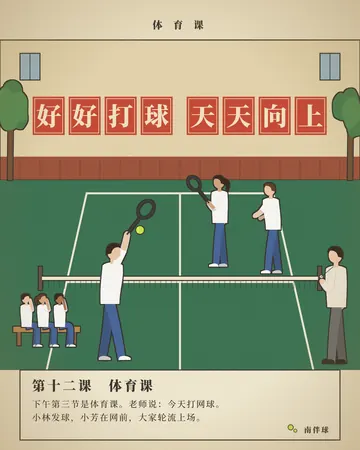
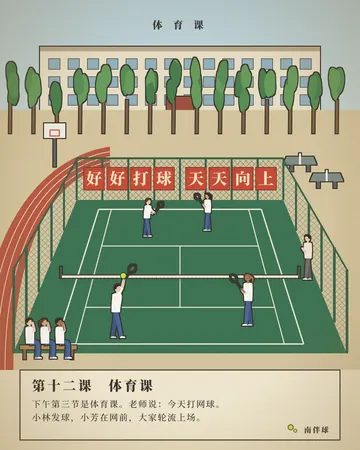
海报 181–182 改为高机位远景学校运动场，八字标语挂在球场围网上；textbook.schoolyard
Claude-Session: https://claude.ai/code/session_014vi3eY4PQACXjZBSA9oy8y

diff --git a/marketing/textbook.py b/marketing/textbook.py
@@ -10,6 +10,7 @@ DEFS = (f'<filter id="ol_t" x="-10%" y="-10%" width="120%" height="120%"><feMorp
         f'<feFlood flood-color="{INK}"/><feComposite in2="d" operator="in" result="o"/><feMerge><feMergeNode in="o"/><feMergeNode in="SourceGraphic"/></feMerge></filter>'
         '<pattern id="dots_t" width="7" height="7" patternUnits="userSpaceOnUse" patternTransform="rotate(30)"><circle cx="3.5" cy="3.5" r="1.3" fill="#3A2E20"/></pattern>'
         '<filter id="paper_t" x="0" y="0" width="100%" height="100%"><feTurbulence type="fractalNoise" baseFrequency=".6" numOctaves="3" seed="61"/><feColorMatrix values="0 0 0 0 .45  0 0 0 0 .38  0 0 0 0 .25  0 0 0 .22 0"/></filter>'
+        '<pattern id="mesh_t" width="12" height="12" patternUnits="userSpaceOnUse" patternTransform="rotate(45)"><rect width="12" height="12" fill="none" stroke="#4A6A5A" stroke-width="1.4"/></pattern>'
         '<radialGradient id="age_t" cx="50%" cy="50%" r="75%"><stop offset=".55" stop-color="#8A6A3A" stop-opacity="0"/><stop offset="1" stop-color="#8A6A3A" stop-opacity=".35"/></radialGradient>')
 
 
@@ -41,3 +42,77 @@ def lesson(p, no, title, lines, y=1110):
         p.append(f'<text x="96" y="{y + 112 + i * 40}" font-family="{SERIF}" font-weight="500" font-size="26" letter-spacing="3" fill="{INK}">{t}</text>')
     p.append(f'<circle cx="872" cy="{y + 172}" r="8" fill="#C6EA3D" stroke="{INK}" stroke-width="2"/><circle cx="886" cy="{y + 182}" r="5" fill="#C6EA3D" stroke="{INK}" stroke-width="1.6"/>'
              f'<text x="990" y="{y + 188}" text-anchor="end" font-family="{SERIF}" font-weight="900" font-size="22" letter-spacing="4" fill="{INK}">南伴球</text>')
+
+
+def schoolyard(p, r, slogan_text='好好打球天天向上'):
+    """高机位远景的学校运动场：教学楼、白杨、红跑道弯道、篮球架、乒乓球台、
+    一块被围网围住的南伴绿网球场；八个大字挂在远端围网上，正对着看的人。
+    返回 (球场透视函数)：T(u, v) 把场地坐标 (u 0..1 左右, v 0..1 远近) 映射到画面。"""
+    from lin import blob, ink
+    FY, NY, FL, FR, NL, NR = 600, 1060, 230, 850, 40, 1040          # 球场远边 / 近边
+    T = lambda u, v: (FL + (FR - FL) * u + ((NL + (NR - NL) * u) - (FL + (FR - FL) * u)) * v, FY + (NY - FY) * v)
+    p.append('<defs><linearGradient id="sky_t" x1="0" y1="0" x2="0" y2="1"><stop offset="0" stop-color="#B8D4E0"/><stop offset="1" stop-color="#E8E4CC"/></linearGradient></defs>')
+    p.append('<rect width="1080" height="1110" fill="url(#sky_t)"/>')
+    # 教学楼（远处一长条）
+    p.append(outlined('<rect x="120" y="150" width="840" height="190" fill="#EDE4CC"/><rect x="120" y="140" width="840" height="14" fill="#B8A88A"/>'))
+    for row in range(3):
+        for col in range(14):
+            p.append(f'<rect x="{146 + col * 58}" y="{176 + row * 54}" width="34" height="32" fill="#8EB0C0" stroke="{INK}" stroke-width="1.5"/>')
+    p.append(outlined('<rect x="500" y="290" width="80" height="50" fill="#9A4A34"/>'))
+    # 地面
+    p.append('<path d="M0 330 L1080 330 L1080 1110 L0 1110Z" fill="#D8C8A0"/>')
+    # 白杨一排
+    tr = ''
+    for x in range(30, 1080, 70):
+        tr += ink([(x, 400), (x + 1, 300)], 7, '#7A5A3A', 1, (0, 0)) + ''.join(blob(r, x + r.uniform(-10, 10), 260 + r.uniform(-50, 40), 16, 40, r.choice(['#4E8A4E', '#3E7A44', '#5E9A56']), 1) for _ in range(3))
+    p.append(outlined(tr))
+    # 红跑道的一段弯道（左边）+ 白线
+    p.append('<path d="M-60 1110 C-60 700 120 470 330 440 L330 500 C170 520 40 720 40 1110Z" fill="#B8503A"/>')
+    for k in range(1, 4):
+        p.append(f'<path d="M{-60 + k*25} 1110 C{-60 + k*25} {700 + k*5} {120 + k*12} {470 + k*15} 330 {440 + k*15}" stroke="#F4EED8" stroke-width="2" fill="none"/>')
+    # 篮球架（左上）、乒乓球台（右边）
+    p.append(outlined(f'<rect x="160" y="380" width="8" height="120" fill="#5A5A5A"/><rect x="132" y="370" width="64" height="44" fill="#F4F2EA"/><rect x="150" y="390" width="28" height="18" fill="none" stroke="{RED}" stroke-width="3"/>'))
+    for x, y in [(900, 470), (980, 520)]:
+        p.append(outlined(f'<path d="M{x - 40} {y} L{x + 40} {y} L{x + 50} {y + 24} L{x - 50} {y + 24}Z" fill="#7A8A84"/><rect x="{x - 3}" y="{y - 10}" width="6" height="34" fill="#F4F2EA"/><rect x="{x - 30}" y="{y + 24}" width="10" height="20" fill="#5A5A5A"/><rect x="{x + 20}" y="{y + 24}" width="10" height="20" fill="#5A5A5A"/>'))
+    # 球场（南伴绿）+ 白线
+    poly = ' '.join(f'{a:.0f},{b:.0f}' for a, b in [T(0, 0), T(1, 0), T(1, 1), T(0, 1)])
+    p.append(f'<polygon points="{poly}" fill="{GREEN}"/>')
+    p.append(f'<polygon points="{poly}" fill="url(#dots_t)" opacity=".16"/>')
+    def L(u1, v1, u2, v2, w=4):
+        (a, b), (c, d) = T(u1, v1), T(u2, v2)
+        p.append(f'<line x1="{a:.0f}" y1="{b:.0f}" x2="{c:.0f}" y2="{d:.0f}" stroke="#F4EED8" stroke-width="{w}"/>')
+    for u in (.12, .88):
+        L(u, .06, u, .94)
+    for u in (.18, .82):
+        L(u, .06, u, .94, 3)
+    L(.12, .06, .88, .06); L(.12, .94, .88, .94); L(.18, .3, .82, .3, 3); L(.18, .7, .82, .7, 3); L(.5, .3, .5, .7, 3)
+    (a, b), (c, d) = T(.06, .5), T(.94, .5)
+    p.append(outlined(f'<line x1="{a:.0f}" y1="{b:.0f}" x2="{c:.0f}" y2="{d:.0f}" stroke="#F4EED8" stroke-width="7"/><rect x="{a - 4:.0f}" y="{b - 30:.0f}" width="6" height="34" fill="#4A4A4A"/><rect x="{c - 2:.0f}" y="{d - 30:.0f}" width="6" height="34" fill="#4A4A4A"/>'))
+    p.append(f'<g opacity=".55">' + ''.join(f'<line x1="{a + (c - a) * k / 60:.0f}" y1="{b:.0f}" x2="{a + (c - a) * k / 60:.0f}" y2="{b + 16:.0f}" stroke="{INK}" stroke-width="1"/>' for k in range(61)) + '</g>')
+    # 围网：远端一面（挂标语）+ 两侧（透视收向远处）
+    FH = 120
+    (fx1, fy), (fx2, _) = T(0, 0), T(1, 0)
+    p.append(f'<rect x="{fx1:.0f}" y="{fy - FH}" width="{fx2 - fx1:.0f}" height="{FH}" fill="url(#mesh_t)" opacity=".75"/>')
+    for k in range(9):
+        x = fx1 + (fx2 - fx1) * k / 8
+        p.append(f'<rect x="{x - 3:.0f}" y="{fy - FH - 6}" width="6" height="{FH + 6}" fill="#2E5A44"/>')
+    p.append(f'<rect x="{fx1:.0f}" y="{fy - FH - 8}" width="{fx2 - fx1:.0f}" height="6" fill="#2E5A44"/>')
+    for side in (0, 1):
+        (nx, ny) = T(side, 1)
+        p.append(f'<polygon points="{T(side, 0)[0]:.0f},{fy} {T(side, 0)[0]:.0f},{fy - FH} {nx:.0f},{ny - FH * 2.1:.0f} {nx:.0f},{ny}" fill="url(#mesh_t)" opacity=".55"/>')
+        p.append(f'<line x1="{T(side, 0)[0]:.0f}" y1="{fy - FH}" x2="{nx:.0f}" y2="{ny - FH * 2.1:.0f}" stroke="#2E5A44" stroke-width="5"/>')
+        for k in range(1, 6):
+            (px, py) = T(side, k / 5)
+            p.append(f'<rect x="{px - 3:.0f}" y="{py - FH * (1 + 1.1 * k / 5):.0f}" width="{6 + 2 * k / 5:.0f}" height="{FH * (1 + 1.1 * k / 5):.0f}" fill="#2E5A44"/>')
+    # 远端围网上的八块红色标语牌
+    n = len(slogan_text)
+    bw, gap, mid = 62, 8, 26
+    total = n * bw + (n - 1) * gap + mid
+    x0 = (fx1 + fx2) / 2 - total / 2
+    for i, ch in enumerate(slogan_text):
+        x = x0 + i * (bw + gap) + (mid if i >= n // 2 else 0)
+        y = fy - FH + 22
+        p.append(f'<rect x="{x:.0f}" y="{y:.0f}" width="{bw}" height="{bw + 6}" fill="{RED}" stroke="#7A2418" stroke-width="2"/>'
+                 f'<text x="{x + bw / 2:.0f}" y="{y + bw * .82:.0f}" text-anchor="middle" font-family="{SERIF}" font-weight="900" font-size="{bw * .76:.0f}" fill="#F7E9C8">{ch}</text>'
+                 f'<circle cx="{x + 6:.0f}" cy="{y + 6:.0f}" r="2" fill="#7A2418"/><circle cx="{x + bw - 6:.0f}" cy="{y + 6:.0f}" r="2" fill="#7A2418"/>')
+    return T

diff --git a/marketing/posters/p182_textbook_labour.py b/marketing/posters/p182_textbook_labour.py
@@ -1,46 +1,43 @@
 from lib import *
-from lin import blob, ink
 from people import person
-from textbook import DEFS, PAPER, INK, RED, BLUE, GREEN, outlined, finish, slogan, lesson
+from textbook import DEFS, PAPER, INK, RED, BLUE, GREEN, outlined, finish, lesson, schoolyard
 
 META = dict(
     id=182, slug='textbook-labour', title='劳动课', lines=['打球之前，', '先把场地弄干净。'],
-    style=['课本插画', '年代感', '勾线平涂', '南伴绿'], tone='浅色', demo=False,
-    concept='六七十年代课本插画的画法：泛黄的纸、黑线勾边、平涂少色；同一块南伴绿的水泥球场上上劳动课——有人扫落叶、两个人推着石头压路滚、有人提着石灰桶画白线、两个人抬着一筐球；墙上还是那八个字；底下课文框「第十三课　劳动课」',
-    use='年代感 / 社群里一起搭把手；回忆共鸣',
+    style=['课本插画', '年代感', '远景', '南伴绿'], tone='浅色', demo=False,
+    concept='六七十年代课本插画的画法，高机位远景：同一个学校运动场，围网上挂着「好好打球　天天向上」；南伴绿的场地上上劳动课——有人扫落叶、两个人推着石头压路滚、有人提着石灰桶画一条画了一半的白线、两个人抬着一筐球往场边走',
+    use='年代感 / 一起搭把手；回忆共鸣',
 )
 
 
 def svg():
     r = random.Random(182)
     p = [f'<defs>{DEFS}</defs>', f'<rect width="1080" height="1350" fill="{PAPER}"/>']
-    p.append('<rect x="0" y="120" width="1080" height="300" fill="#E8D8B0"/><rect x="0" y="360" width="1080" height="60" fill="#9A4A34"/>')
-    p.append(f'<rect x="0" y="120" width="1080" height="300" fill="none" stroke="{INK}" stroke-width="3"/>')
-    slogan(p, '好好打球', 98, 190, 96, 12)
-    slogan(p, '天天向上', 560, 190, 96, 12)
-    p.append(f'<path d="M0 420 L1080 420 L1080 1110 L0 1110Z" fill="{GREEN}"/>')
-    p.append(f'<path d="M0 420 L1080 420 L1080 1110 L0 1110Z" fill="url(#dots_t)" opacity=".18"/>')
-    p.append('<path d="M120 1110 L250 460 L830 460 L960 1110 M540 460 L540 1110" stroke="#F4EED8" stroke-width="6" fill="none"/>')
-    p.append('<path d="M190 780 L620 780" stroke="#F4EED8" stroke-width="6"/>')                                    # 画了一半的线
-    p.append('<path d="M620 780 L890 780" stroke="#F4EED8" stroke-width="3" stroke-dasharray="6 14" opacity=".6"/>')
-    for _ in range(40):                                                                                         # 落叶
-        p.append(f'<ellipse cx="{r.uniform(60, 1020):.0f}" cy="{r.uniform(900, 1090):.0f}" rx="8" ry="4" transform="rotate({r.uniform(0, 180):.0f})" fill="{r.choice(["#D8A040", "#B8742A", "#E8C060"])}"/>')
-    # 扫地的
-    p.append(outlined(person(180, 1060, .95, 'teach', 1, 0, 1, '#FFFFFF', BLUE, shoe='#FFFFFF', sleeve='short', hairstyle='pony')))
-    p.append(outlined(f'<line x1="250" y1="840" x2="300" y2="1050" stroke="#8A6A3A" stroke-width="6"/><path d="M280 1040 L330 1060 L320 1080 L270 1066Z" fill="#D8B060"/>'))
-    # 推压路滚的两个人
-    p.append(outlined('<rect x="430" y="606" width="120" height="70" rx="35" fill="#9A9A90"/><line x1="490" y1="640" x2="560" y2="560" stroke="#6A4A30" stroke-width="7"/>'))
-    p.append(outlined(person(600, 680, .8, 'grip', -1, 2, 0, '#FFFFFF', BLUE, shoe='#FFFFFF', sleeve='short', hairstyle='short')))
-    # 提着石灰桶画线的
-    p.append(outlined(person(660, 800, .8, 'walk', 1, 1, 2, '#FFFFFF', BLUE, shoe='#FFFFFF', sleeve='short', hairstyle='bob')))
-    p.append(outlined(f'<path d="M700 700 L736 700 L732 740 L704 740Z" fill="#E8E8E0"/><path d="M702 700 C708 684 728 684 734 700" stroke="{INK}" stroke-width="2" fill="none"/>'))
-    p.append(f'<text x="718" y="728" text-anchor="middle" font-family="{SERIF}" font-weight="900" font-size="12" fill="{INK}">石灰</text>')
-    # 抬着球筐的两个人
-    p.append(outlined(person(780, 1070, .95, 'hold', 1, 0, 0, '#FFFFFF', BLUE, shoe='#FFFFFF', sleeve='short', hairstyle='short')))
-    p.append(outlined(person(990, 1070, .95, 'hold', -1, 3, 3, '#FFFFFF', BLUE, shoe='#FFFFFF', sleeve='short', hairstyle='pony')))
-    p.append(outlined('<line x1="820" y1="830" x2="950" y2="830" stroke="#8A6A3A" stroke-width="8"/><path d="M850 834 L920 834 L910 900 L860 900Z" fill="#C8A060"/>'))
-    for i in range(7):
-        p.append(f'<circle cx="{862 + (i % 4) * 14}" cy="{846 - (i // 4) * 12}" r="8" fill="#C6EA3D" stroke="{INK}" stroke-width="1.6"/>')
+    T = schoolyard(p, r)
+    for _ in range(60):                                                                                        # 场上的落叶
+        u, v = r.uniform(.02, .98), r.uniform(.4, 1)
+        x, y = T(u, v)
+        p.append(f'<ellipse cx="{x:.0f}" cy="{y:.0f}" rx="5" ry="2.5" fill="{r.choice(["#D8A040", "#B8742A", "#E8C060"])}"/>')
+    def kid(u, v, pose, f, sk=0, hr=0, hs='short', s=1.0):
+        x, y = T(u, v)
+        sc = (.28 + .2 * v) * s
+        p.append(outlined(person(x, y, sc, pose, f, sk, hr, '#FFFFFF', BLUE, shoe='#FFFFFF', sleeve='short', hairstyle=hs)))
+        return x, y, sc
+    x, y, sc = kid(.2, .86, 'teach', 1, 0, 1, 'pony')                                                         # 扫地
+    p.append(outlined(f'<line x1="{x + 60*sc:.0f}" y1="{y - 210*sc:.0f}" x2="{x + 95*sc:.0f}" y2="{y - 6:.0f}" stroke="#8A6A3A" stroke-width="4"/><path d="M{x + 80*sc:.0f} {y - 10:.0f} l40 8 l-6 12 l-40 -8Z" fill="#D8B060"/>'))
+    rx, ry = T(.55, .28)                                                                                      # 压路滚
+    p.append(outlined(f'<rect x="{rx - 40:.0f}" y="{ry - 26:.0f}" width="80" height="44" rx="22" fill="#9A9A90"/><line x1="{rx:.0f}" y1="{ry - 4:.0f}" x2="{rx + 56:.0f}" y2="{ry - 52:.0f}" stroke="#6A4A30" stroke-width="5"/>'))
+    kid(.66, .26, 'grip', -1, 2, 0, 'short')
+    kid(.71, .3, 'grip', -1, 0, 3, 'short')
+    (a, b), (c, d) = T(.18, .7), T(.55, .7)                                                                   # 画了一半的线
+    p.append(f'<line x1="{a:.0f}" y1="{b:.0f}" x2="{c:.0f}" y2="{d:.0f}" stroke="#FFFFFF" stroke-width="4"/>')
+    lx, ly, ls = kid(.58, .74, 'walk', 1, 1, 2, 'bob')
+    p.append(outlined(f'<path d="M{lx + 30:.0f} {ly - 110:.0f} l22 0 l-3 26 l-16 0Z" fill="#E8E8E0"/>'))
+    x1, y1, s1 = kid(.8, .9, 'hold', 1, 0, 0, 'short')                                                       # 抬球筐
+    x2, y2, s2 = kid(.95, .9, 'hold', -1, 3, 3, 'pony')
+    p.append(outlined(f'<line x1="{x1 + 40*s1:.0f}" y1="{y1 - 248*s1:.0f}" x2="{x2 - 40*s2:.0f}" y2="{y2 - 248*s2:.0f}" stroke="#8A6A3A" stroke-width="5"/><path d="M{(x1 + x2) / 2 - 30:.0f} {y1 - 244*s1:.0f} l60 0 l-8 44 l-44 0Z" fill="#C8A060"/>'))
+    for i in range(6):
+        p.append(f'<circle cx="{(x1 + x2) / 2 - 18 + (i % 3) * 18:.0f}" cy="{y1 - 248*s1 + 8 - (i // 3) * 10:.0f}" r="7" fill="#C6EA3D" stroke="{INK}" stroke-width="1.4"/>')
     p.append(f'<text x="540" y="86" text-anchor="middle" font-family="{SERIF}" font-weight="900" font-size="30" letter-spacing="12" fill="{INK}">劳 动 课</text>')
     lesson(p, '十三', '劳动课', ['打球之前，先把场地弄干净。', '扫落叶，压场地，画白线，把球捡回筐里。'])
     finish(p)

diff --git a/marketing/posters/p181_textbook_pe.py b/marketing/posters/p181_textbook_pe.py
@@ -1,46 +1,34 @@
 from lib import *
-from lin import blob, ink
 from people import person
-from textbook import DEFS, PAPER, INK, RED, BLUE, GREEN, outlined, finish, slogan, lesson
+from textbook import DEFS, PAPER, INK, RED, BLUE, GREEN, outlined, finish, lesson, schoolyard
 
 META = dict(
     id=181, slug='textbook-pe', title='体育课', lines=['好好打球，', '天天向上。'],
-    style=['课本插画', '年代感', '勾线平涂', '南伴绿'], tone='浅色', demo=False,
-    concept='六七十年代课本插画的画法：泛黄的纸、黑线勾边、平涂少色、印刷网点；学校的墙上一排红底大字「好好打球　天天向上」，墙下一块南伴绿的水泥球场，白衬衫蓝裤子的孩子们在上体育课——有人发球、有人在网前、老师吹着哨子，长凳上坐着等着轮换的同学；底下是课文框「第十二课　体育课」',
-    use='年代感 / 回忆共鸣；适合节日、开学季、社群活动',
+    style=['课本插画', '年代感', '远景', '南伴绿'], tone='浅色', demo=False,
+    concept='六七十年代课本插画的画法，高机位远景：从教学楼上往下看整个学校运动场——远处教学楼和一排白杨，左边红跑道的弯道和篮球架，右边水泥乒乓球台；中间一块被围网围住的南伴绿网球场，远端围网上挂着八块红色标语牌「好好打球　天天向上」；场上几个白衬衫蓝裤子的孩子在上体育课，老师站在网边吹哨，场边长凳上坐着等轮换的同学',
+    use='年代感 / 回忆共鸣；开学季、节日、社群活动',
 )
 
 
 def svg():
     r = random.Random(181)
     p = [f'<defs>{DEFS}</defs>', f'<rect width="1080" height="1350" fill="{PAPER}"/>']
-    p.append('<rect x="0" y="120" width="1080" height="420" fill="#E8D8B0"/>')                                    # 校舍的墙
-    p.append(f'<rect x="0" y="470" width="1080" height="70" fill="#9A4A34"/>')
-    for x in range(0, 1080, 60):
-        p.append(f'<line x1="{x}" y1="470" x2="{x}" y2="540" stroke="#7A3A28" stroke-width="2"/>')
-    p.append(f'<rect x="0" y="120" width="1080" height="420" fill="none" stroke="{INK}" stroke-width="3"/>')
-    for x in (60, 960):                                                                                       # 窗
-        p.append(f'<rect x="{x}" y="160" width="60" height="80" fill="#9AB8C8" stroke="{INK}" stroke-width="3"/><line x1="{x+30}" y1="160" x2="{x+30}" y2="240" stroke="{INK}" stroke-width="2"/>')
-    slogan(p, '好好打球', 98, 290, 96, 12)
-    slogan(p, '天天向上', 560, 290, 96, 12)
-    p.append(f'<path d="M0 540 L1080 540 L1080 1110 L0 1110Z" fill="{GREEN}"/>')                                  # 南伴绿水泥场
-    p.append(f'<path d="M0 540 L1080 540 L1080 1110 L0 1110Z" fill="url(#dots_t)" opacity=".18"/>')
-    p.append('<path d="M140 1110 L260 580 L820 580 L940 1110 M200 846 L880 846 M540 580 L540 1110" stroke="#F4EED8" stroke-width="6" fill="none"/>')
-    p.append(outlined('<rect x="120" y="830" width="840" height="10" fill="#F4EED8"/><rect x="116" y="800" width="10" height="70" fill="#5A4A3A"/><rect x="954" y="800" width="10" height="70" fill="#5A4A3A"/>'))
-    p.append('<g opacity=".7">' + ''.join(f'<line x1="{x}" y1="840" x2="{x}" y2="866" stroke="{INK}" stroke-width="1.4"/>' for x in range(130, 955, 16)) + '</g>')
-    trees = ''.join(ink([(x, 540), (x + 2, 380)], 14, '#6A4A30', 1, (0, 0)) + ''.join(blob(r, x + r.uniform(-24, 24), 330 + r.uniform(-60, 40), 30, 46, r.choice(['#4E8A4E', '#3E7A44']), 1) for _ in range(5)) for x in (30, 1050))
-    p.append(outlined(trees))
-    kids = [(330, 1080, 1.0, 'five', 1, 0, 0, '#FFFFFF', BLUE, 'short', 'fh'),
-            (660, 800, .78, 'hold', -1, 1, 0, '#FFFFFF', BLUE, 'pony', 'fh'),
-            (820, 820, .78, 'teach', -1, 0, 1, '#FFFFFF', BLUE, 'short', None)]
-    for x, y, s_, pose, f, sk, hr, top, bot, hs, rk in kids:
-        p.append(outlined(person(x, y, s_, pose, f, sk, hr, top, bot, shoe='#FFFFFF', sleeve='short', hairstyle=hs, racket_hand=rk)))
-    p.append(outlined(person(1010, 1090, 1.0, 'hold', -1, 0, 0, '#F2EADA', '#6A6A6A', shoe='#2A2622', sleeve='long', hairstyle='short')))   # 老师
-    p.append(f'<circle cx="964" cy="830" r="6" fill="#C8C8C8" stroke="{INK}" stroke-width="2"/><line x1="964" y1="830" x2="1000" y2="800" stroke="{INK}" stroke-width="1.5"/>')   # 哨子
-    p.append(outlined('<rect x="40" y="980" width="200" height="16" fill="#B8864A"/><rect x="52" y="996" width="10" height="40" fill="#8A5A3A"/><rect x="218" y="996" width="10" height="40" fill="#8A5A3A"/>'))
-    for i, x in enumerate((80, 130, 180)):
-        p.append(outlined(person(x, 1040, .55, 'drink', 1, i % 3, i % 2, '#FFFFFF', BLUE, shoe='#FFFFFF', sleeve='short', hairstyle=['short', 'pony', 'short'][i])))
-    p.append(f'<circle cx="420" cy="690" r="13" fill="#C6EA3D" stroke="{INK}" stroke-width="2.5"/><path d="M412 682 C417 687 417 693 412 698" stroke="#F6F8E0" stroke-width="2" fill="none"/>')
+    T = schoolyard(p, r)
+    def kid(u, v, pose, f, sk=0, hr=0, hs='short', rk=None, s=1.0, top='#FFFFFF', bot=BLUE):
+        x, y = T(u, v)
+        sc = (.28 + .2 * v) * s
+        p.append(outlined(person(x, y, sc, pose, f, sk, hr, top, bot, shoe='#FFFFFF', sleeve='short', hairstyle=hs, racket_hand=rk)))
+    kid(.3, .9, 'five', 1, 0, 0, 'short', 'fh')
+    kid(.62, .2, 'hold', -1, 1, 0, 'pony', 'fh')
+    kid(.36, .24, 'teach', 1, 0, 1, 'short', 'fh')
+    kid(.72, .82, 'hold', -1, 2, 2, 'pony', 'fh')
+    kid(.97, .52, 'hold', -1, 0, 0, 'short', None, 1.0, '#F2EADA', '#6A6A6A')               # 老师在网边
+    bx, by = T(.31, .72)
+    p.append(f'<circle cx="{bx:.0f}" cy="{by - 104:.0f}" r="9" fill="#C6EA3D" stroke="{INK}" stroke-width="2"/>')
+    # 场外长凳上的同学
+    p.append(outlined('<rect x="60" y="1036" width="170" height="12" fill="#B8864A"/><rect x="70" y="1048" width="8" height="30" fill="#8A5A3A"/><rect x="212" y="1048" width="8" height="30" fill="#8A5A3A"/>'))
+    for i, x in enumerate((90, 135, 180)):
+        p.append(outlined(person(x, 1076, .42, 'drink', 1, i % 3, i % 2, '#FFFFFF', BLUE, shoe='#FFFFFF', sleeve='short', hairstyle=['short', 'pony', 'short'][i])))
     p.append(f'<text x="540" y="86" text-anchor="middle" font-family="{SERIF}" font-weight="900" font-size="30" letter-spacing="12" fill="{INK}">体 育 课</text>')
     lesson(p, '十二', '体育课', ['下午第三节是体育课。老师说：今天打网球。', '小林发球，小芳在网前，大家轮流上场。'])
     finish(p)

diff --git a/.claude/skills/nanbanqiu-poster/品味手册.md b/.claude/skills/nanbanqiu-poster/品味手册.md
@@ -13,7 +13,7 @@
 - 同一场地一天四个时间的组图（61–63，用 `marketing/four_times.py`）没被挑剔，可继续。
 - 小球拟人只在**有故事**时可以；不为可爱而可爱。
 
-- 11-08 学林风眠：要学**画法和气象**，不要搬他的题材 / 元素（照搬秋林、白鹭、仕女、静物被否）。第二版（发球抛歪 / 夜场 / 影子 / 跟墙打）又被说要「不只看到球和体育，更看到自然、天地、人的精神世界；不沉郁顿挫，而是光亮饱满」→ 110–113：金合欢、海边、大树、草原，暖白纸底、亮色、人小天地大。用户要求底稿都保留：首版 114–117、第二版 118–121（深绿装裱 `frame_dark`）。用户认可的方向：「天地开阔、明亮，人很小、心里很宽，主角是天地和季节」→ 122–125 借各家方法（王希孟青绿山水、Hockney 平涂硬光、广重晨空晕染 + 近景框景、吴冠中点线）。11-08 用户：122、124、125「都非常棒」，**123 Hockney 平涂不喜欢**（太「设计」、没有意境，别再做纯平涂硬边）。126–129 借老树画画「诗画配」：竖排五言打油诗（`lin.poem()`，不带标点）+ 留白 + 季节 + 小人，好笑不说教。130–133 宋代美学 × 现代设计（民族的就是世界的、大俗大雅）：团扇 + 马远一角、院体花鸟折枝（网带当花枝）、汝窑盏 + 博物馆展签、马远《水图》满纸线 + 一个点。11-08 用户评 130–133「小气了，缺宋代山水、宫墙、云天的格局和整体观」→ 宋代题材要**整幅大格局**（巨嶂山水、宫阙云天、宫墙长街），不做一角小品、单件器物；134–136。用户：「把山画得更有骨力，鹤画得更精细。不错」→ `marketing/song.py`：`ridge_mountain`（棱角轮廓 + 明暗块面 + 浓墨骨线 + 雨点皴）、`crane`（工笔丹顶鹤）、`roof`（金瓦庑殿顶）；137–139 千里江山、宫城俯瞰、仙山楼阁。用户：「功夫在画外，取原本不是名画里的场景，创造新的境界」→ 140–143 从打球人亲眼见过的瞬间取景（积水里的天、舷窗下的球场、露水上的脚印、满地的球像星星），不再借名画构图。144–147 汉风（`marketing/han.py`：汉白玉石纹、浅浮雕 `relief`、画像石人物 `figure`、云气纹）：画像石浮雕带、瓦当「日日有球」、双阙、画像砖上下两栏。飘带别从腰后拖（像尾巴）。用户：144、147「非常好」→ 148–151 汉画像小人 × 现代日常（电车路牌「球场」、五点五十九、咖啡热气画成云气纹、后备箱）；新增姿势 stand/sit/sip/bend。用户：浮雕风「枯燥、刻意、呆板，有点不舒服」，要「古人活在当下」+ 现代平面设计、多元多彩 → 152–155：汉画像小人做平面彩色剪影（`han.flat` + `POP` 色板），网格打破、撞色色块、印花图案、负形落日。以后汉风别再做浮雕。156–159「奥运风」：只借运动会的设计语言（原创几何图标 `marketing/picto.py`、领奖台、奖牌、大号比分、彩虹速度条），**不用五环、火炬、吉祥物、「奥运」字样和官方图标**；挂带别配成某国国旗色。160–161 顶级运动品牌风（`marketing/athlete.py`）：黑底硬光 + 单侧轮廓光的人物剪影 + Black 粗体超大字、人站在字前 + 一句最短的话「再来一球。」+ 全画面只有球是荧光色；反色版铺品牌荧光黄绿。**不用勾标、Just Do It、品牌名**。用户：160–161「不喜欢，太简单粗暴」→ 别再做硬光大字的运动品牌风。162 借优衣库式的诚实日常：暖白底平铺 11 件打球家当，编号 + 一行小字（有小幽默：袜子打完可能是红的、香蕉第二盘前吃），安静、整齐、留白。11-08 用户给了两张优衣库场景图，要「借鉴其优秀的思想和经验，而不是用 AI 去模仿生成真人」→ 163–166 场景插画（`marketing/people.py` 不画五官的现代插画人 + `scene_common.py` 虚化围网 / 长凳）：抓拍「一起」的瞬间、晴天斜光和墙上的影子、干净背景 + 生活小道具、人物居中偏右、左下细黑体标题 + 一句业务规则里的功能说明、右下小号落款（不压深色条）。167–170 用设计系统把场景图收成一个系列（`marketing/series.py`：颜色 token 60% 暖白沙色 / 30% 品牌绿系 / 10% 荧光黄绿只给球和行动提示；统一网格、三级字号、左上眉标、行动提示带荧光下划线、右下落款 + 01/04 编号；光一律从左上来；不用纯黑用带绿的墨色；四张按用户旅程排）。做系列图先定 token 和版式，再画画面。171–173 日本电影海报质感（`marketing/film.py`）：过曝柔光、褪色、颗粒、漏光；人很小、什么都没发生；竖排细宋体片名 + 一行旁白；底部仿演职员表的小字写南伴球的小细节（「冰　放在球包里两个小时」「回程　大概是逆风」）。不借任何真实电影的片名和画面。11-08 用户：「颜色都太浅了，南伴绿完全没体现，一味地浅跟网球的热情和运动风脱离」→ 171–173 已重调：大面积南伴绿（场地 / 遮雨棚 / 河堤）、饱和的天和海、去掉褪色蒙层、标题用南伴深绿、绿底上的小字用浅色、荧光球仍是最亮的点。**任何风格都要让南伴绿占大面积，不做通篇浅灰浅粉。** 用户发来是枝裕和《海街日记》法国版海报作参照 → 174「最后一颗球」：整张虚化的深南伴绿夜树影、上方居中大宋体片名 + 英文 + 三行演职员表小字（电筒电量 12%、剪辑：找到了就回家）、最底下四个人蹲在草里，手机电筒是唯一的暖光（遮罩只照亮光附近的手和脸），荧光球在草里发亮。又发来《步履不停》海报 → 175「打着打着」：白纸底、照片框右上出血左留白条、浓绿树荫小路上四个不同年纪的球友正面合影（`people.front()`）、照片下大片留白 + 标语 + 手写感大片名（粗黑体 + 位移滤镜 + 每字微旋转）+ 简介 + 名字排 + 最小号演职员小字。又发《爱乐之城》海报，要「借鉴风格和设计思维，不模仿人物场景」→ 176「今晚有球」：南伴绿暮色天幕 + 星 + 一线暖金地平线 + 城市灯海；一根泛光灯做竖向配重；全画面唯一的互补暖色 = 抛进星星里的荧光球；细体大片名、「主演：你　一位水平相近的陌生人」、底部瘦长演职员表写球局功能。杨德昌风（177–178）：城市里的现代人 + 框中框 / 玻璃倒影 + 冷日光灯里的温度——一栋旧公寓三十扇窗各过各的日子、其中一扇有人收拾明天的球包（铁窗、冷气机是细节）；下班电车车窗上城市光带和人的倒影叠在一起。王家卫风（179–180，`marketing/wkw.py`）：横向拖影光带 + 抽帧残影 + 倾斜画框 + 霓虹绿（和南伴绿天然合拍）+ 精确的时间数字 + 中英字幕式独白；台词全部原创（三公分、四十分钟），不借电影台词。六七十年代课本插画（181–183，`marketing/textbook.py`）：泛黄纸 + 黑线勾边（膨胀描边滤镜）+ 平涂少色 + 网点；墙上红底方块大字「好好打球　天天向上」（用户点名的八个字）；课文框「第十二课　体育课」；黑板报（黑板绿 = 南伴绿）。红领巾、旗帜等政治元素不画，只留校园记忆。
+- 11-08 学林风眠：要学**画法和气象**，不要搬他的题材 / 元素（照搬秋林、白鹭、仕女、静物被否）。第二版（发球抛歪 / 夜场 / 影子 / 跟墙打）又被说要「不只看到球和体育，更看到自然、天地、人的精神世界；不沉郁顿挫，而是光亮饱满」→ 110–113：金合欢、海边、大树、草原，暖白纸底、亮色、人小天地大。用户要求底稿都保留：首版 114–117、第二版 118–121（深绿装裱 `frame_dark`）。用户认可的方向：「天地开阔、明亮，人很小、心里很宽，主角是天地和季节」→ 122–125 借各家方法（王希孟青绿山水、Hockney 平涂硬光、广重晨空晕染 + 近景框景、吴冠中点线）。11-08 用户：122、124、125「都非常棒」，**123 Hockney 平涂不喜欢**（太「设计」、没有意境，别再做纯平涂硬边）。126–129 借老树画画「诗画配」：竖排五言打油诗（`lin.poem()`，不带标点）+ 留白 + 季节 + 小人，好笑不说教。130–133 宋代美学 × 现代设计（民族的就是世界的、大俗大雅）：团扇 + 马远一角、院体花鸟折枝（网带当花枝）、汝窑盏 + 博物馆展签、马远《水图》满纸线 + 一个点。11-08 用户评 130–133「小气了，缺宋代山水、宫墙、云天的格局和整体观」→ 宋代题材要**整幅大格局**（巨嶂山水、宫阙云天、宫墙长街），不做一角小品、单件器物；134–136。用户：「把山画得更有骨力，鹤画得更精细。不错」→ `marketing/song.py`：`ridge_mountain`（棱角轮廓 + 明暗块面 + 浓墨骨线 + 雨点皴）、`crane`（工笔丹顶鹤）、`roof`（金瓦庑殿顶）；137–139 千里江山、宫城俯瞰、仙山楼阁。用户：「功夫在画外，取原本不是名画里的场景，创造新的境界」→ 140–143 从打球人亲眼见过的瞬间取景（积水里的天、舷窗下的球场、露水上的脚印、满地的球像星星），不再借名画构图。144–147 汉风（`marketing/han.py`：汉白玉石纹、浅浮雕 `relief`、画像石人物 `figure`、云气纹）：画像石浮雕带、瓦当「日日有球」、双阙、画像砖上下两栏。飘带别从腰后拖（像尾巴）。用户：144、147「非常好」→ 148–151 汉画像小人 × 现代日常（电车路牌「球场」、五点五十九、咖啡热气画成云气纹、后备箱）；新增姿势 stand/sit/sip/bend。用户：浮雕风「枯燥、刻意、呆板，有点不舒服」，要「古人活在当下」+ 现代平面设计、多元多彩 → 152–155：汉画像小人做平面彩色剪影（`han.flat` + `POP` 色板），网格打破、撞色色块、印花图案、负形落日。以后汉风别再做浮雕。156–159「奥运风」：只借运动会的设计语言（原创几何图标 `marketing/picto.py`、领奖台、奖牌、大号比分、彩虹速度条），**不用五环、火炬、吉祥物、「奥运」字样和官方图标**；挂带别配成某国国旗色。160–161 顶级运动品牌风（`marketing/athlete.py`）：黑底硬光 + 单侧轮廓光的人物剪影 + Black 粗体超大字、人站在字前 + 一句最短的话「再来一球。」+ 全画面只有球是荧光色；反色版铺品牌荧光黄绿。**不用勾标、Just Do It、品牌名**。用户：160–161「不喜欢，太简单粗暴」→ 别再做硬光大字的运动品牌风。162 借优衣库式的诚实日常：暖白底平铺 11 件打球家当，编号 + 一行小字（有小幽默：袜子打完可能是红的、香蕉第二盘前吃），安静、整齐、留白。11-08 用户给了两张优衣库场景图，要「借鉴其优秀的思想和经验，而不是用 AI 去模仿生成真人」→ 163–166 场景插画（`marketing/people.py` 不画五官的现代插画人 + `scene_common.py` 虚化围网 / 长凳）：抓拍「一起」的瞬间、晴天斜光和墙上的影子、干净背景 + 生活小道具、人物居中偏右、左下细黑体标题 + 一句业务规则里的功能说明、右下小号落款（不压深色条）。167–170 用设计系统把场景图收成一个系列（`marketing/series.py`：颜色 token 60% 暖白沙色 / 30% 品牌绿系 / 10% 荧光黄绿只给球和行动提示；统一网格、三级字号、左上眉标、行动提示带荧光下划线、右下落款 + 01/04 编号；光一律从左上来；不用纯黑用带绿的墨色；四张按用户旅程排）。做系列图先定 token 和版式，再画画面。171–173 日本电影海报质感（`marketing/film.py`）：过曝柔光、褪色、颗粒、漏光；人很小、什么都没发生；竖排细宋体片名 + 一行旁白；底部仿演职员表的小字写南伴球的小细节（「冰　放在球包里两个小时」「回程　大概是逆风」）。不借任何真实电影的片名和画面。11-08 用户：「颜色都太浅了，南伴绿完全没体现，一味地浅跟网球的热情和运动风脱离」→ 171–173 已重调：大面积南伴绿（场地 / 遮雨棚 / 河堤）、饱和的天和海、去掉褪色蒙层、标题用南伴深绿、绿底上的小字用浅色、荧光球仍是最亮的点。**任何风格都要让南伴绿占大面积，不做通篇浅灰浅粉。** 用户发来是枝裕和《海街日记》法国版海报作参照 → 174「最后一颗球」：整张虚化的深南伴绿夜树影、上方居中大宋体片名 + 英文 + 三行演职员表小字（电筒电量 12%、剪辑：找到了就回家）、最底下四个人蹲在草里，手机电筒是唯一的暖光（遮罩只照亮光附近的手和脸），荧光球在草里发亮。又发来《步履不停》海报 → 175「打着打着」：白纸底、照片框右上出血左留白条、浓绿树荫小路上四个不同年纪的球友正面合影（`people.front()`）、照片下大片留白 + 标语 + 手写感大片名（粗黑体 + 位移滤镜 + 每字微旋转）+ 简介 + 名字排 + 最小号演职员小字。又发《爱乐之城》海报，要「借鉴风格和设计思维，不模仿人物场景」→ 176「今晚有球」：南伴绿暮色天幕 + 星 + 一线暖金地平线 + 城市灯海；一根泛光灯做竖向配重；全画面唯一的互补暖色 = 抛进星星里的荧光球；细体大片名、「主演：你　一位水平相近的陌生人」、底部瘦长演职员表写球局功能。杨德昌风（177–178）：城市里的现代人 + 框中框 / 玻璃倒影 + 冷日光灯里的温度——一栋旧公寓三十扇窗各过各的日子、其中一扇有人收拾明天的球包（铁窗、冷气机是细节）；下班电车车窗上城市光带和人的倒影叠在一起。王家卫风（179–180，`marketing/wkw.py`）：横向拖影光带 + 抽帧残影 + 倾斜画框 + 霓虹绿（和南伴绿天然合拍）+ 精确的时间数字 + 中英字幕式独白；台词全部原创（三公分、四十分钟），不借电影台词。六七十年代课本插画（181–183，`marketing/textbook.py`）：泛黄纸 + 黑线勾边（膨胀描边滤镜）+ 平涂少色 + 网点；墙上红底方块大字「好好打球　天天向上」（用户点名的八个字）；课文框「第十二课　体育课」；黑板报（黑板绿 = 南伴绿）。红领巾、旗帜等政治元素不画，只留校园记忆。用户：「视角拉大拉远，弥补人物表情的不足；八个字应该在球场四周的围栏上，符合国内学校运动场实际；自然合理又有设计感，基于现实超越现实」→ `textbook.schoolyard()` 高机位远景：教学楼、白杨、红跑道弯道、篮球架、乒乓球台、围网球场，八块红色标语牌挂在远端围网上。**人物画不好时，就拉远镜头，让场景和结构说话。**
 
 **明确不喜欢（点名，记原因）**
 - 37「一个人，是半…」、38「球，就是求一个人」、40「隔着一张网…」：**煽情、刻意、喊口号、讲道理**；拆字、哲理金句、「A，才B」。
